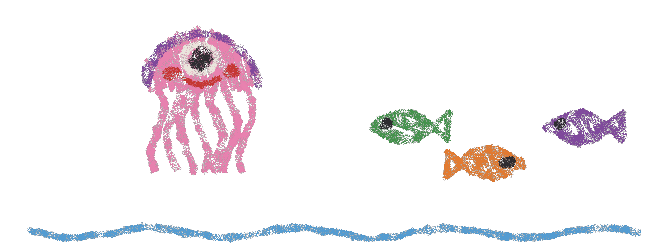
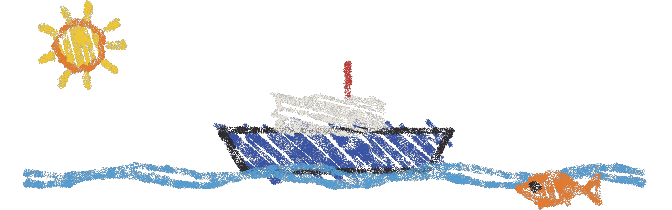
Scarabocchi: sala_1 con la nave al posto di Jilly (sembrava la medusina del disegno degli acquari) e sulle piastrelle bianche sopra la riga rossa; la verifica guarda anche porte, poster e acquari [skip ci]
Claude-Session: https://claude.ai/code/session_019HZGeneQaXJBRDNw4H3tQj

Changed region(s): [[0.0312, 0.0, 0.9688, 1.0], [0.7812, 0.4286, 0.9375, 0.6]]

diff --git a/assets_src/scarabocchi/genera.py b/assets_src/scarabocchi/genera.py
@@ -39,6 +39,10 @@ def serie(m):
 
 
 def scegli(m, k):
+    # un muro può avere il suo disegno (per esempio in sala niente Jilly rosa: sembrerebbe la medusina del disegno
+    # degli acquari, l'indizio dell'enigma)
+    if m.get('disegno'):
+        return getattr(disegni, m['disegno'])
     # ogni serie a turno in tutto il gioco, così ci sono tutti i disegni e non due uguali di fila
     s = getattr(disegni, serie(m))
     return s[k % len(s)]
